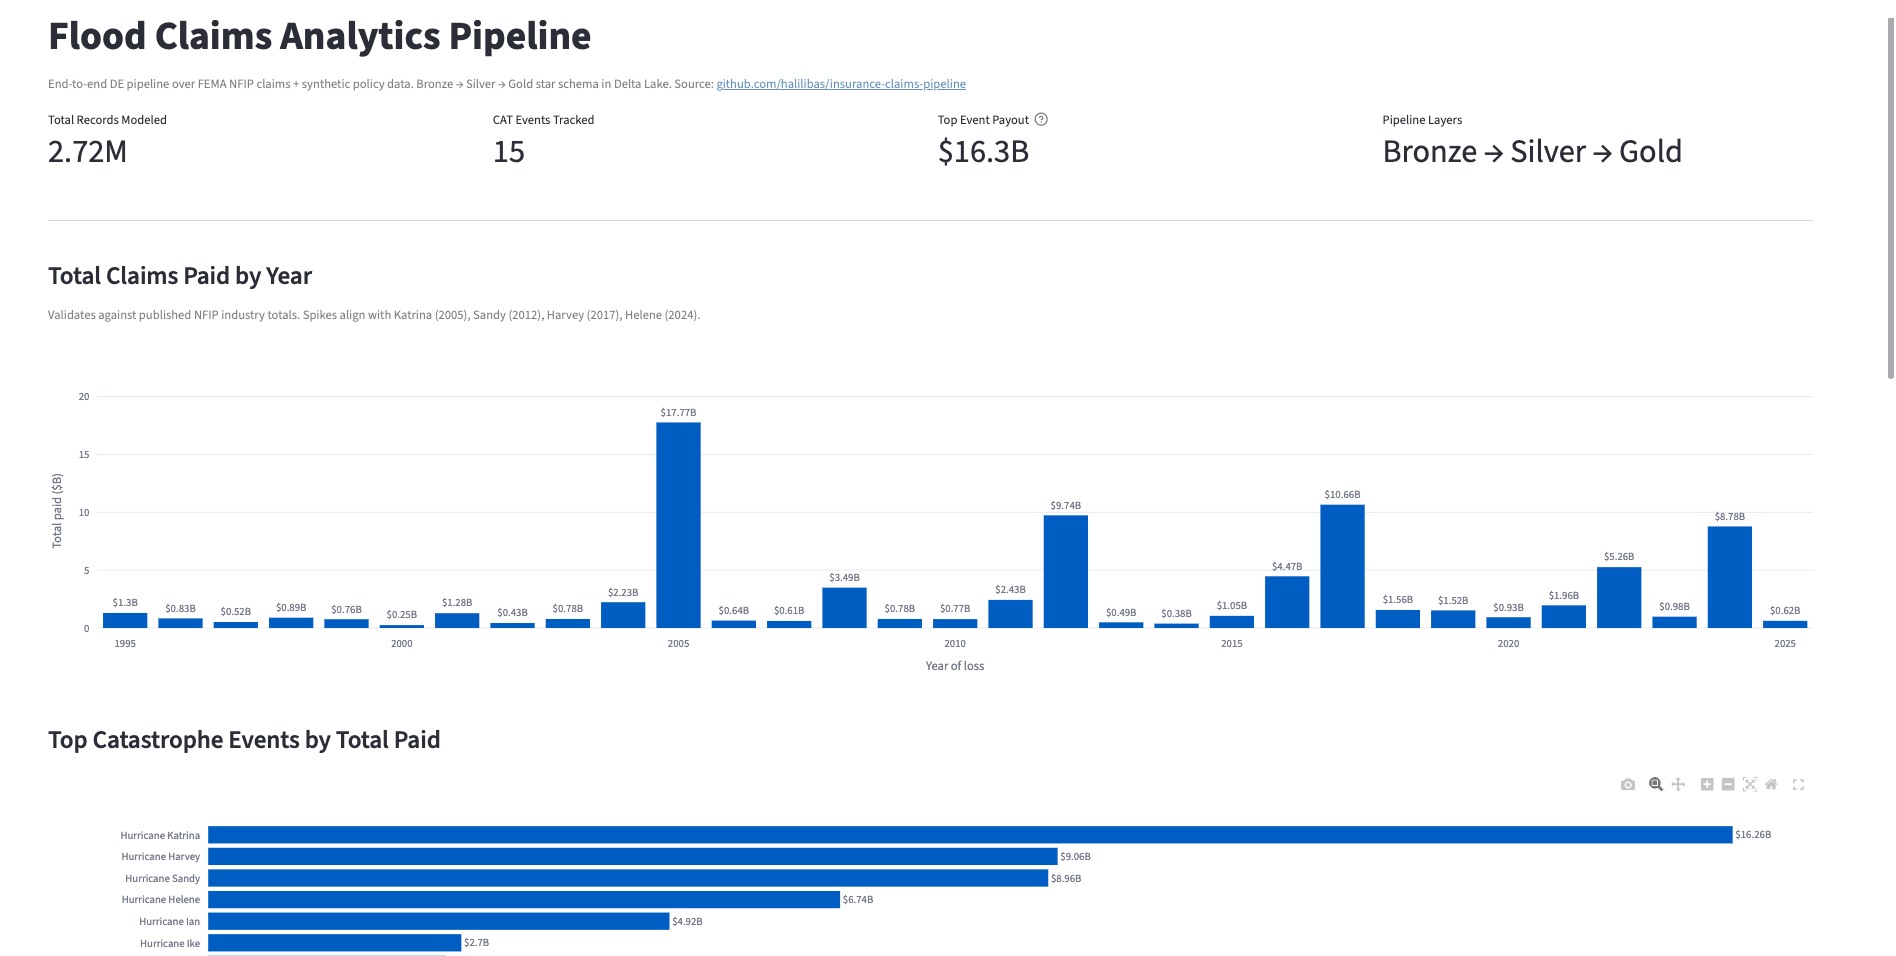
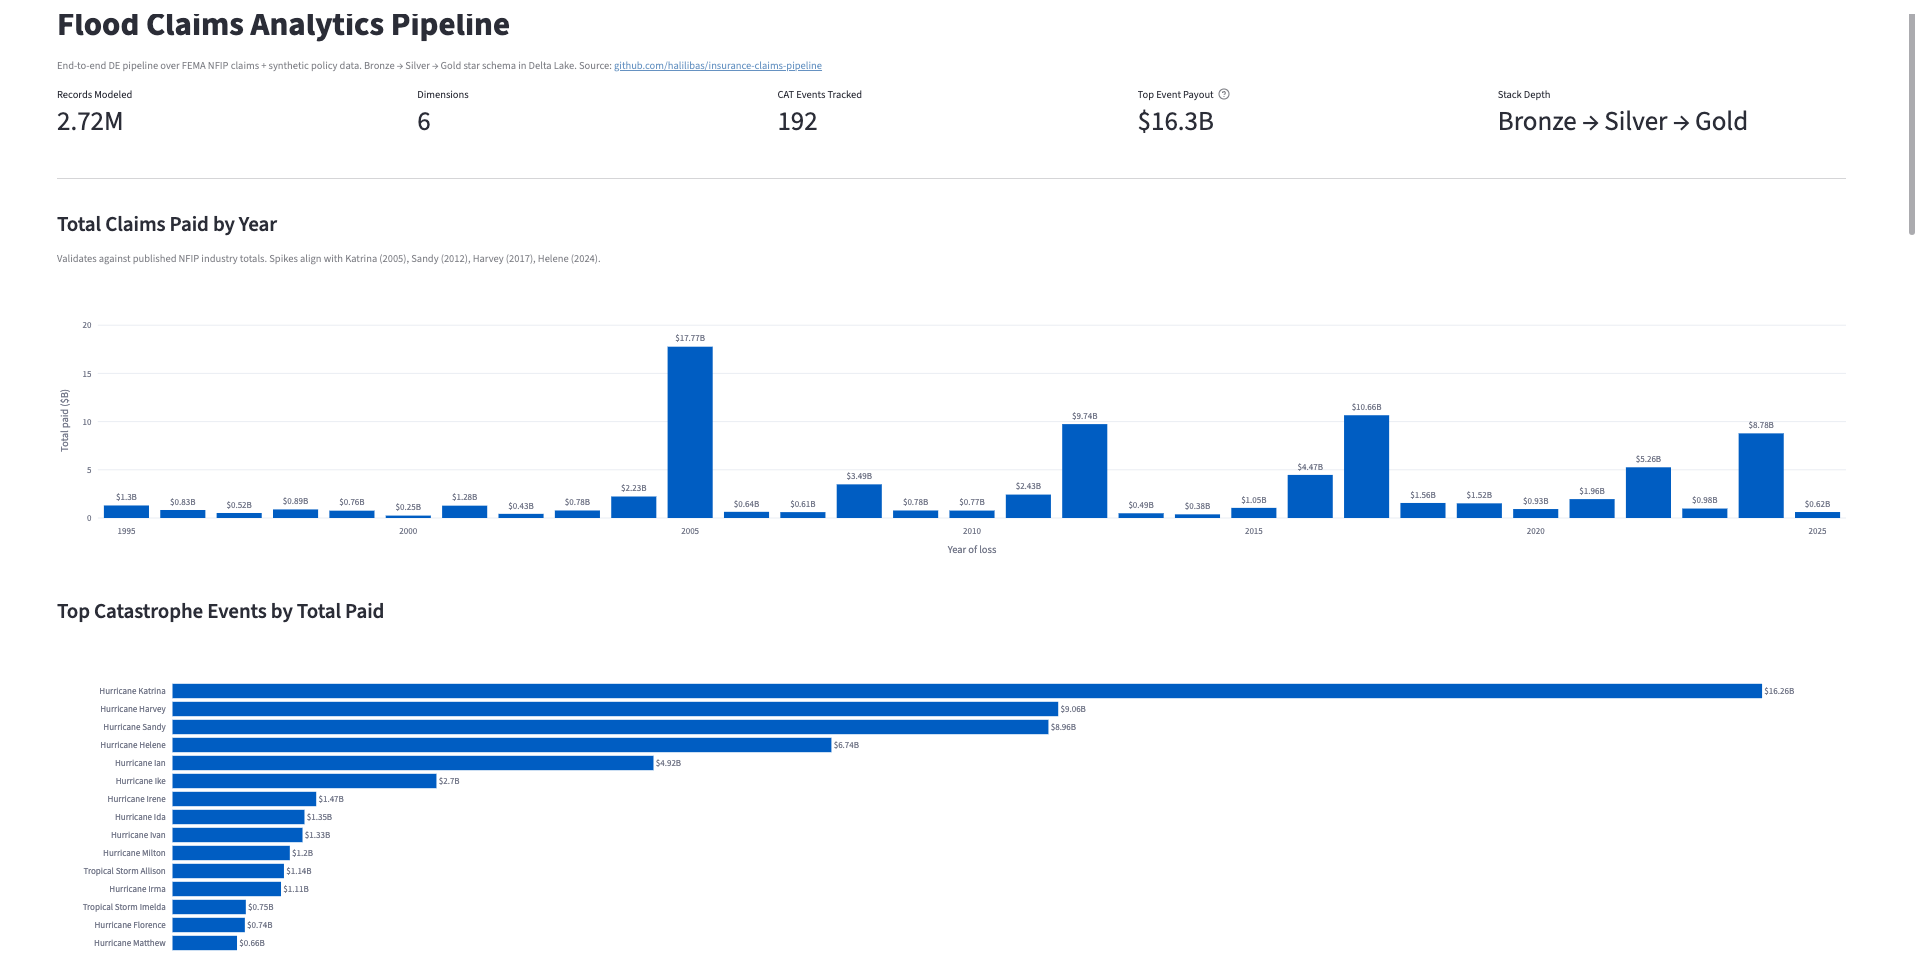
docs(readme): update the current state with expanded table inventory

diff --git a/README.md b/README.md
@@ -6,11 +6,13 @@ An end-to-end data engineering project using FEMA NFIP flood claims data and syn
 
 The goal is to build a small but realistic insurance analytics pipeline: ingest raw claims data, clean and standardize it through bronze and silver layers, model business-ready tables in a gold layer, and surface claims KPIs in a Streamlit dashboard.
 
-## What's Working Week 2
+
+
+## What's Working 
 
 End-to-end pipeline: FEMA NFIP raw → Bronze Delta → Silver typed/cleaned → Gold star schema → Streamlit dashboard.
 
-[Dashboard](docs/dashboard_screenshot.png)
+![Dashboard](docs/dashboard_screenshot.png)
 
 **KPI validation** — total payouts by event match published NFIP industry figures within ~5%:
 
@@ -20,18 +22,22 @@ End-to-end pipeline: FEMA NFIP raw → Bronze Delta → Silver typed/cleaned →
 | Hurricane Sandy | $8.96B | ~$8.5B | ~5% |
 | Hurricane Harvey | $9.06B | ~$9B | ~1% |
 
-**Domain insight surfaced by the model** — hurricane-season claims (Jun–Nov) average $40,769 vs $14,641 off-season (2.8x severity). The query is one line because `hurricane_season_flag` is a domain attribute on `dim_date`.
+**Star schema depth** — six dimensions, SCD Type 2 on policy and customer, role-playing date dimensions for claim lifecycle:
 
-### Tables built
+| Layer | Table | Type | Rows |
+|---|---|---|---|
+| Bronze | `bronze.fema_claims_raw` | Raw | 2,721,780 |
+| Bronze | `bronze.ref_{occupancy_type, cause_of_damage, location_of_contents, building_description, flood_zone}` | Reference | 14 / 12 / 7 / 20 / 12 |
+| Silver | `silver.claims_clean` | Cleaned + lifecycle dates | 2,721,780 |
+| Gold | `gold.dim_date` | Calendar | 22,280 |
+| Gold | `gold.dim_agent` | SCD1 | 75 |
+| Gold | `gold.dim_policy` | SCD2 (via Delta MERGE) | 2,721,781 |
+| Gold | `gold.dim_customer` | SCD2 (via Delta MERGE) | 2,721,781 |
+| Gold | `gold.dim_geography` | SCD1 + Kimball UNKNOWN sentinel | 327,255 |
+| Gold | `gold.dim_cat_event` | SCD1 | 192 |
+| Gold | `gold.fact_claims` v1 | 10 FKs, cycle time measures | 2,721,780 |
 
-| Layer | Table | Rows |
-|---|---|---|
-| Bronze | `bronze.fema_claims_raw` | 2,721,780 |
-| Bronze | `bronze.synthetic_{agents,customers,policies}_raw` | 75 / 2.72M / 2.72M |
-| Silver | `silver.claims_clean` | 2,721,780 |
-| Silver | `silver.claims_enriched` | 2,721,780 |
-| Gold | `gold.dim_date` | 22,280 |
-| Gold | `gold.fact_claims` v0 | 2,721,780 (partitioned by loss_year) |
+Sanity check: hurricane-season claims average **2.8x higher severity** than off-season — directionally correct for P&C flood.
 
 
 # Architecture